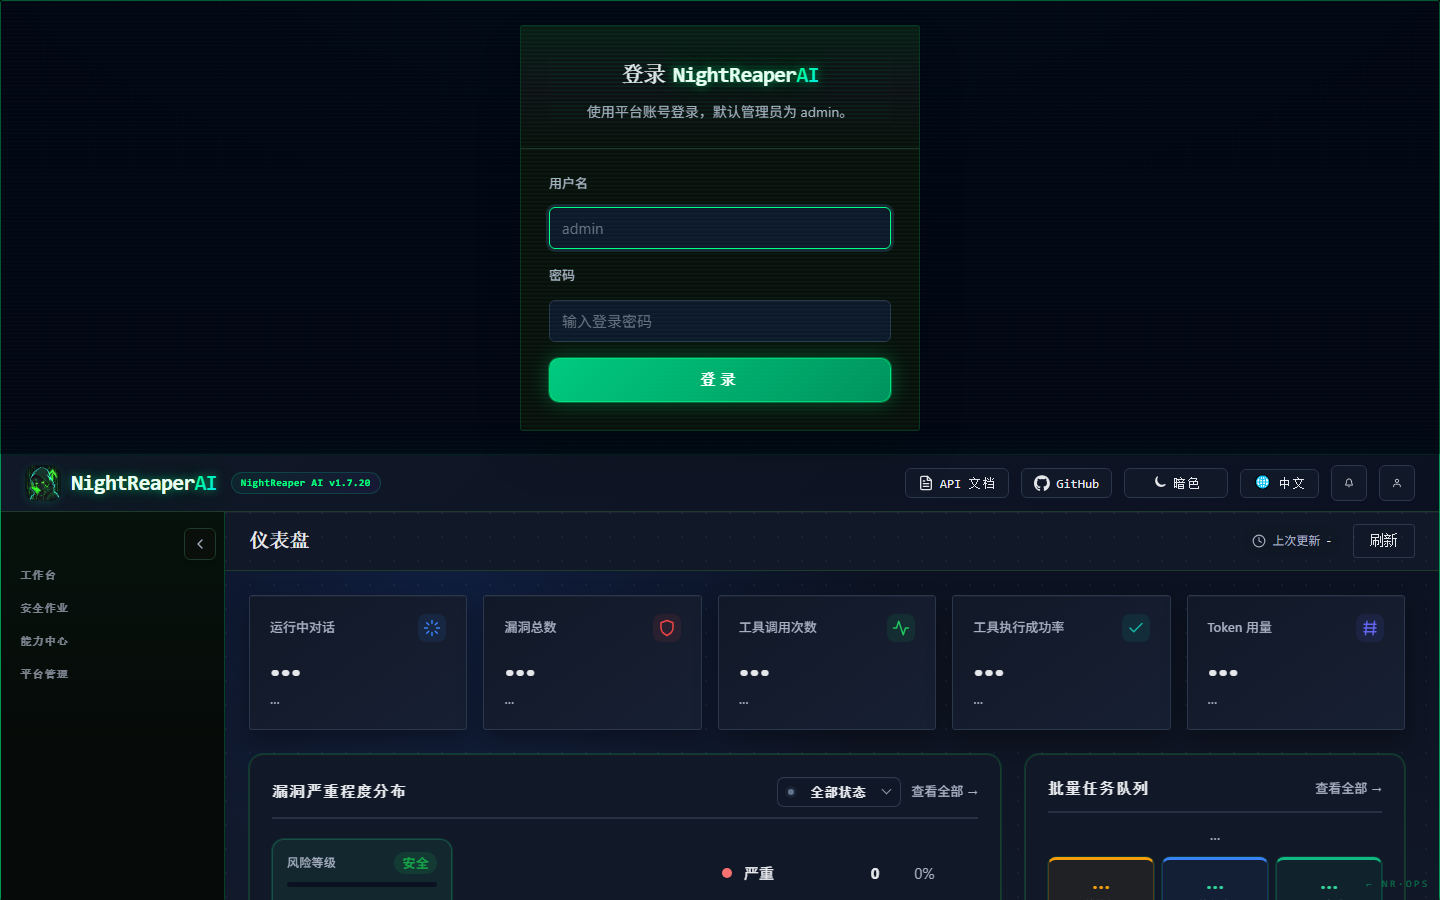
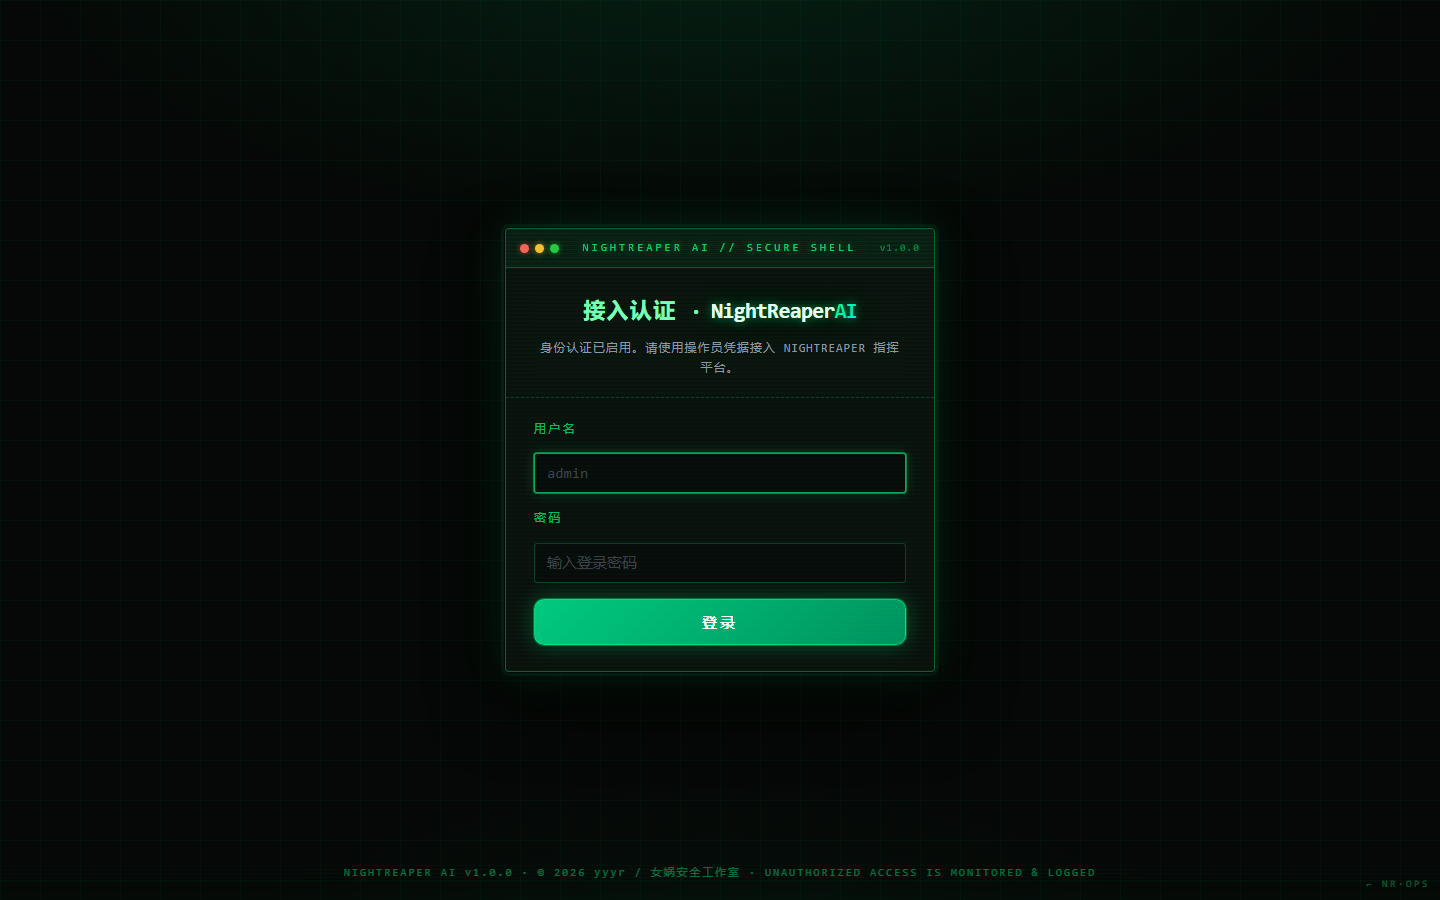
feat: fullscreen terminal login takeover + independent versioning v1.0.0
- Login overlay forced to fixed fullscreen (upstream renders it in
  document flow with dashboard visible below - fixed)
- Terminal window chrome: traffic-light dots, SECURE SHELL titlebar,
  neon border, glow, CRT scanline sweep animation
- Footer signature: version / copyright / unauthorized-access notice
- Version system decoupled from upstream: NightReaper AI v1.0.0
  (config.yaml, about dialog, boot screen); upstream lineage refs kept
- Login copy rewritten (no admin username leak), zh/en i18n updated
- New login screenshot replaces old one in docs/screenshots

diff --git a/web/static/css/theme-nightreaper.css b/web/static/css/theme-nightreaper.css
@@ -231,6 +231,206 @@ a:hover {
     text-decoration-color: var(--accent-color);
 }
 
+/* ============================================================
+   登录页全屏接管：深夜终端认证室
+   上游把 overlay 排在文档流里（登录框占页面顶部、dashboard 在下方
+   照常渲染）——此处强制为全屏悬浮层，登录前彻底遮蔽主页。
+   恒定夜色氛围（不分主题）。
+   ============================================================ */
+.login-overlay,
+html[data-theme="dark"] .login-overlay,
+html[data-theme="dark"] #login-overlay,
+#login-overlay {
+    position: fixed !important;
+    inset: 0 !important;
+    width: 100vw !important;
+    height: 100vh !important;
+    display: flex;
+    align-items: center;
+    justify-content: center;
+    margin: 0 !important;
+    transform: none !important;
+    background:
+        linear-gradient(rgba(0, 255, 136, 0.030) 1px, transparent 1px),
+        linear-gradient(90deg, rgba(0, 255, 136, 0.030) 1px, transparent 1px),
+        radial-gradient(ellipse 80% 55% at 50% -8%, rgba(0, 255, 136, 0.10), transparent 62%),
+        radial-gradient(ellipse 60% 40% at 50% 110%, rgba(0, 120, 80, 0.08), transparent 60%),
+        #050806 !important;
+    background-size: 40px 40px, 40px 40px, 100% 100%, 100% 100%, 100% 100% !important;
+    background-attachment: fixed;
+    z-index: 1200;
+    padding: 24px;
+}
+
+/* CRT 扫描带：周期性自上而下 */
+.login-overlay::before {
+    content: "";
+    position: absolute;
+    left: 0;
+    right: 0;
+    height: 130px;
+    top: -140px;
+    pointer-events: none;
+    background: linear-gradient(180deg,
+        transparent 0%,
+        rgba(0, 255, 136, 0.045) 55%,
+        rgba(0, 255, 136, 0.085) 85%,
+        transparent 100%);
+    animation: nrai-crt-sweep 7s linear infinite;
+}
+
+@keyframes nrai-crt-sweep {
+    0%   { top: -140px; opacity: 0; }
+    8%   { opacity: 1; }
+    92%  { opacity: 1; }
+    100% { top: 110%; opacity: 0; }
+}
+
+/* 底部终端签名行 */
+.login-overlay::after {
+    content: "NIGHTREAPER AI v1.0.0  ·  © 2026 yyyr / 女娲安全工作室  ·  UNAUTHORIZED ACCESS IS MONITORED & LOGGED";
+    position: absolute;
+    left: 0;
+    right: 0;
+    top: auto !important;   /* 抵消 [class*="login"]::after 的 inset:0，否则 top:0+bottom 拉伸导致文字顶置 */
+    height: auto !important;
+    bottom: 18px;
+    text-align: center;
+    font-family: var(--font-mono, Consolas, monospace);
+    font-size: 10.5px;
+    letter-spacing: 0.22em;
+    color: rgba(0, 255, 136, 0.42);
+    pointer-events: none;
+    user-select: none;
+}
+
+/* 终端窗口卡片：直角 + 双层绿框 + 深夜卡底（登录页恒定暗色） */
+.login-card {
+    border-radius: 4px !important;
+    background: #0a100c !important;
+    border: 1px solid rgba(0, 255, 136, 0.35) !important;
+    box-shadow:
+        0 0 0 1px rgba(0, 0, 0, 0.65),
+        0 0 0 4px rgba(0, 255, 136, 0.06),
+        0 0 46px rgba(0, 255, 136, 0.13),
+        0 30px 70px rgba(0, 0, 0, 0.65) !important;
+    max-width: 430px;
+    position: relative;
+    z-index: 2;
+}
+
+/* 终端标题栏 */
+.login-term-bar {
+    display: flex;
+    align-items: center;
+    gap: 12px;
+    padding: 10px 14px;
+    background: rgba(0, 255, 136, 0.055);
+    border-bottom: 1px solid rgba(0, 255, 136, 0.28);
+    font-family: var(--font-mono, Consolas, monospace);
+}
+
+.login-term-dots {
+    display: inline-flex;
+    gap: 6px;
+    flex: none;
+}
+
+.login-term-dots i {
+    width: 9px;
+    height: 9px;
+    border-radius: 50%;
+    display: inline-block;
+}
+
+.login-term-dots i:nth-child(1) { background: #ff5f56; box-shadow: 0 0 6px rgba(255, 95, 86, 0.6); }
+.login-term-dots i:nth-child(2) { background: #ffbd2e; box-shadow: 0 0 6px rgba(255, 189, 46, 0.6); }
+.login-term-dots i:nth-child(3) { background: #27c93f; box-shadow: 0 0 6px rgba(39, 201, 63, 0.7); }
+
+.login-term-title {
+    flex: 1;
+    text-align: center;
+    font-size: 11px;
+    letter-spacing: 0.28em;
+    color: rgba(0, 255, 136, 0.80);
+    text-shadow: 0 0 8px rgba(0, 255, 136, 0.4);
+    white-space: nowrap;
+    overflow: hidden;
+}
+
+.login-term-ver {
+    flex: none;
+    font-size: 10px;
+    letter-spacing: 0.12em;
+    color: rgba(0, 255, 136, 0.45);
+}
+
+/* 品牌区：去渐变底，深夜色 */
+.login-card .login-brand {
+    background: transparent;
+    border-bottom: 1px dashed rgba(0, 255, 136, 0.18);
+    padding: 26px 28px 18px;
+}
+
+/* 标题与副标语：荧光绿体系 */
+.login-card .login-title {
+    color: #7dffb8;
+    font-family: var(--font-mono, Consolas, monospace);
+    letter-spacing: 0.06em;
+    justify-content: center;
+}
+
+.login-card .login-subtitle {
+    color: rgba(167, 176, 192, 0.85);
+    font-family: var(--font-mono, Consolas, monospace);
+    font-size: 0.78rem;
+    letter-spacing: 0.05em;
+    margin-top: 10px;
+}
+
+/* 表单区：深夜输入行 */
+.login-card .login-form {
+    padding: 22px 28px 26px;
+    background: transparent;
+}
+
+.login-card .form-group label {
+    color: rgba(0, 255, 136, 0.72);
+    font-family: var(--font-mono, Consolas, monospace);
+    font-size: 0.76rem;
+    letter-spacing: 0.18em;
+    text-transform: uppercase;
+}
+
+.login-card .form-group input {
+    background: #070b09 !important;
+    border: 1px solid rgba(0, 255, 136, 0.22) !important;
+    color: #d8ffe9 !important;
+    font-family: var(--font-mono, Consolas, monospace) !important;
+    border-radius: 3px !important;
+    transition: border-color 0.15s ease, box-shadow 0.15s ease;
+}
+
+.login-card .form-group input:focus {
+    border-color: rgba(0, 255, 136, 0.65) !important;
+    box-shadow: 0 0 0 1px rgba(0, 255, 136, 0.45), 0 0 14px rgba(0, 255, 136, 0.18) !important;
+}
+
+.login-card .form-group input::placeholder {
+    color: rgba(107, 114, 128, 0.55);
+}
+
+/* 错误条：红色终端告警 */
+.login-card .login-error {
+    background: rgba(248, 113, 113, 0.08);
+    border: 1px solid rgba(248, 113, 113, 0.4);
+    color: #fca5a5;
+    font-family: var(--font-mono, Consolas, monospace);
+    font-size: 0.8rem;
+    letter-spacing: 0.04em;
+    border-radius: 3px;
+}
+
 /* ---------- 夜镰专属角标（右下角战损计数器位） ---------- */
 body::after {
     content: "⌐ NR·OPS";

diff --git a/web/templates/index.html b/web/templates/index.html
@@ -42,6 +42,11 @@
 <body>
     <div id="login-overlay" class="login-overlay" style="display: none;">
         <div class="login-card">
+            <div class="login-term-bar" aria-hidden="true">
+                <span class="login-term-dots"><i></i><i></i><i></i></span>
+                <span class="login-term-title">NIGHTREAPER AI // SECURE SHELL</span>
+                <span class="login-term-ver">v1.0.0</span>
+            </div>
             <div class="login-brand">
                 <h2 class="login-title">
                     <span data-i18n="login.titlePrefix">登录</span>
@@ -6884,7 +6889,7 @@
                         <svg width="16" height="16" viewBox="0 0 98 96" fill="currentColor" xmlns="http://www.w3.org/2000/svg"><path d="M48.854 0C21.839 0 0 22 0 49.217c0 21.756 13.993 40.172 33.405 46.69 2.427.49 3.316-1.059 3.316-2.362 0-1.141-.08-5.052-.08-9.127-13.59 2.934-16.42-5.867-16.42-5.867-2.184-5.704-5.42-7.17-5.42-7.17-4.448-3.015.324-3.015.324-3.015 4.934.326 7.523 5.052 7.523 5.052 4.367 7.496 11.404 5.378 14.235 4.074.404-3.178 1.699-5.378 3.074-6.6-10.839-1.141-22.243-5.378-22.243-24.283 0-5.378 1.94-9.778 5.014-13.2-.485-1.222-2.184-6.275.486-13.038 0 0 4.125-1.304 13.426 5.052a46.97 46.97 0 0 1 12.214-1.63c4.125 0 8.33.571 12.213 1.63 9.302-6.356 13.427-5.052 13.427-5.052 2.67 6.763.97 11.816.485 13.038 3.155 3.422 5.015 7.822 5.015 13.2 0 18.905-11.404 23.06-22.324 24.283 1.78 1.548 3.316 4.481 3.316 9.126 0 6.6-.08 11.897-.08 13.526 0 1.304.89 2.853 3.316 2.364 19.412-6.52 33.405-24.935 33.405-46.691C97.707 22 75.788 0 48.854 0z"/></svg>
                         github.com/daimabiabia
                     </a>
-                    <span style="color:var(--text-secondary);font-size:0.88em;">NightReaper AI v1.7.20</span>
+                    <span style="color:var(--text-secondary);font-size:0.88em;">NightReaper AI v1.0.0</span>
                 </div>
             </div>
             <div class="projects-modal-footer" style="justify-content:space-between;">

diff --git a/web/static/js/boot.js b/web/static/js/boot.js
@@ -67,7 +67,7 @@
     '<div class="nrai-barwrap"><div class="nrai-bar"></div></div>' +
     '<div class="nrai-granted">ACCESS GRANTED</div>' +
     '</div>' +
-    '<div class="nrai-foot">NIGHTREAPER AI v1.7.20 · BY YYYR · 女娲安全工作室</div>';
+    '<div class="nrai-foot">NIGHTREAPER AI v1.0.0 · BY YYYR · 女娲安全工作室</div>';
   document.body.appendChild(root);
 
   // ---- 矩阵雨 ----
